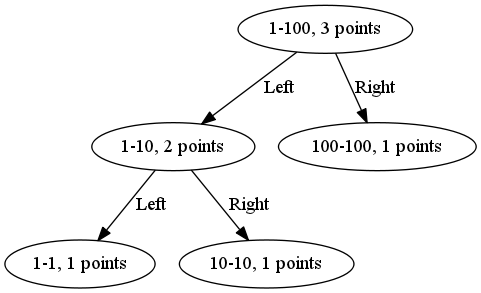
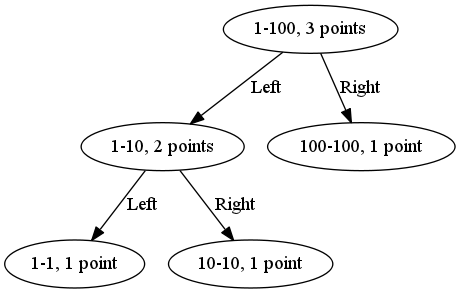
Make the visualization a bit nicer

diff --git a/ranget.h b/ranget.h
@@ -575,7 +575,8 @@ private:
 	// Yes, this leaks memory. It's a debug option anyhow.
 	char *visname(const node * const n) const {
 		char *ptr;
-		asprintf(&ptr, "%u-%u, %u points", n->min, n->max, n->ycount);
+		asprintf(&ptr, "%u-%u, %u point%s", n->min, n->max, n->ycount,
+			n->ycount > 1 ? "s" : "");
 		return ptr;
 	}
 
